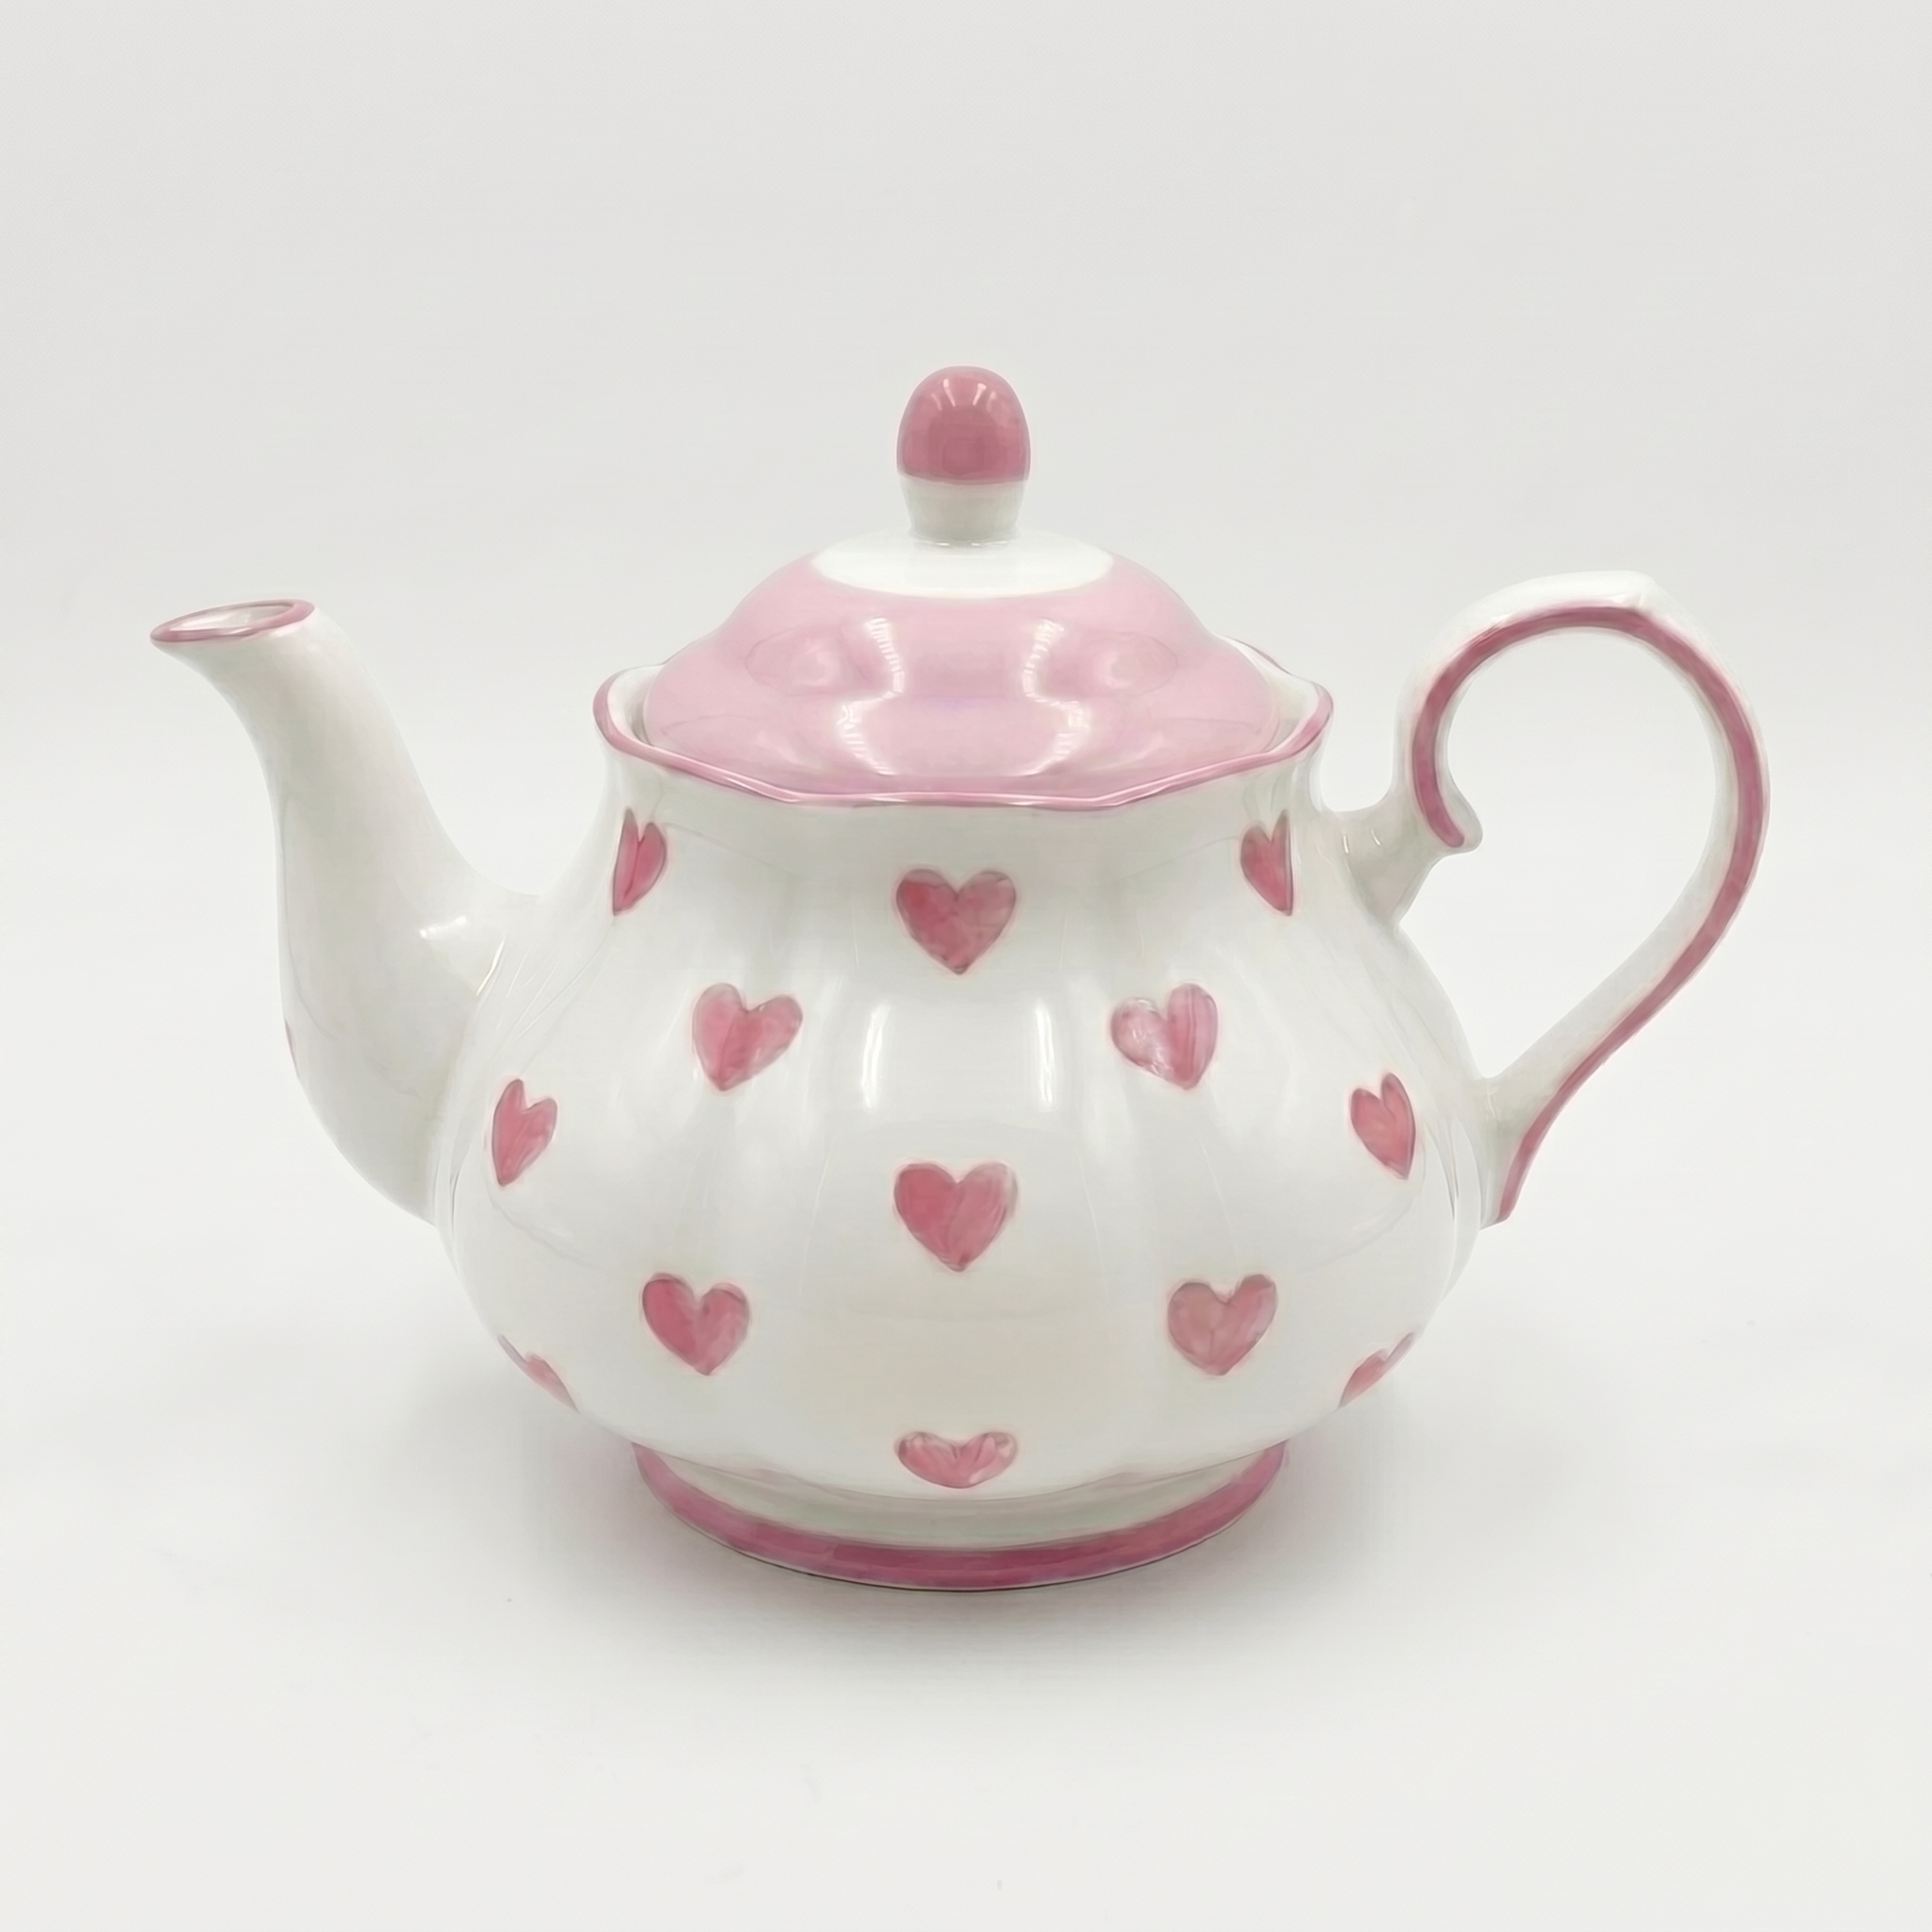
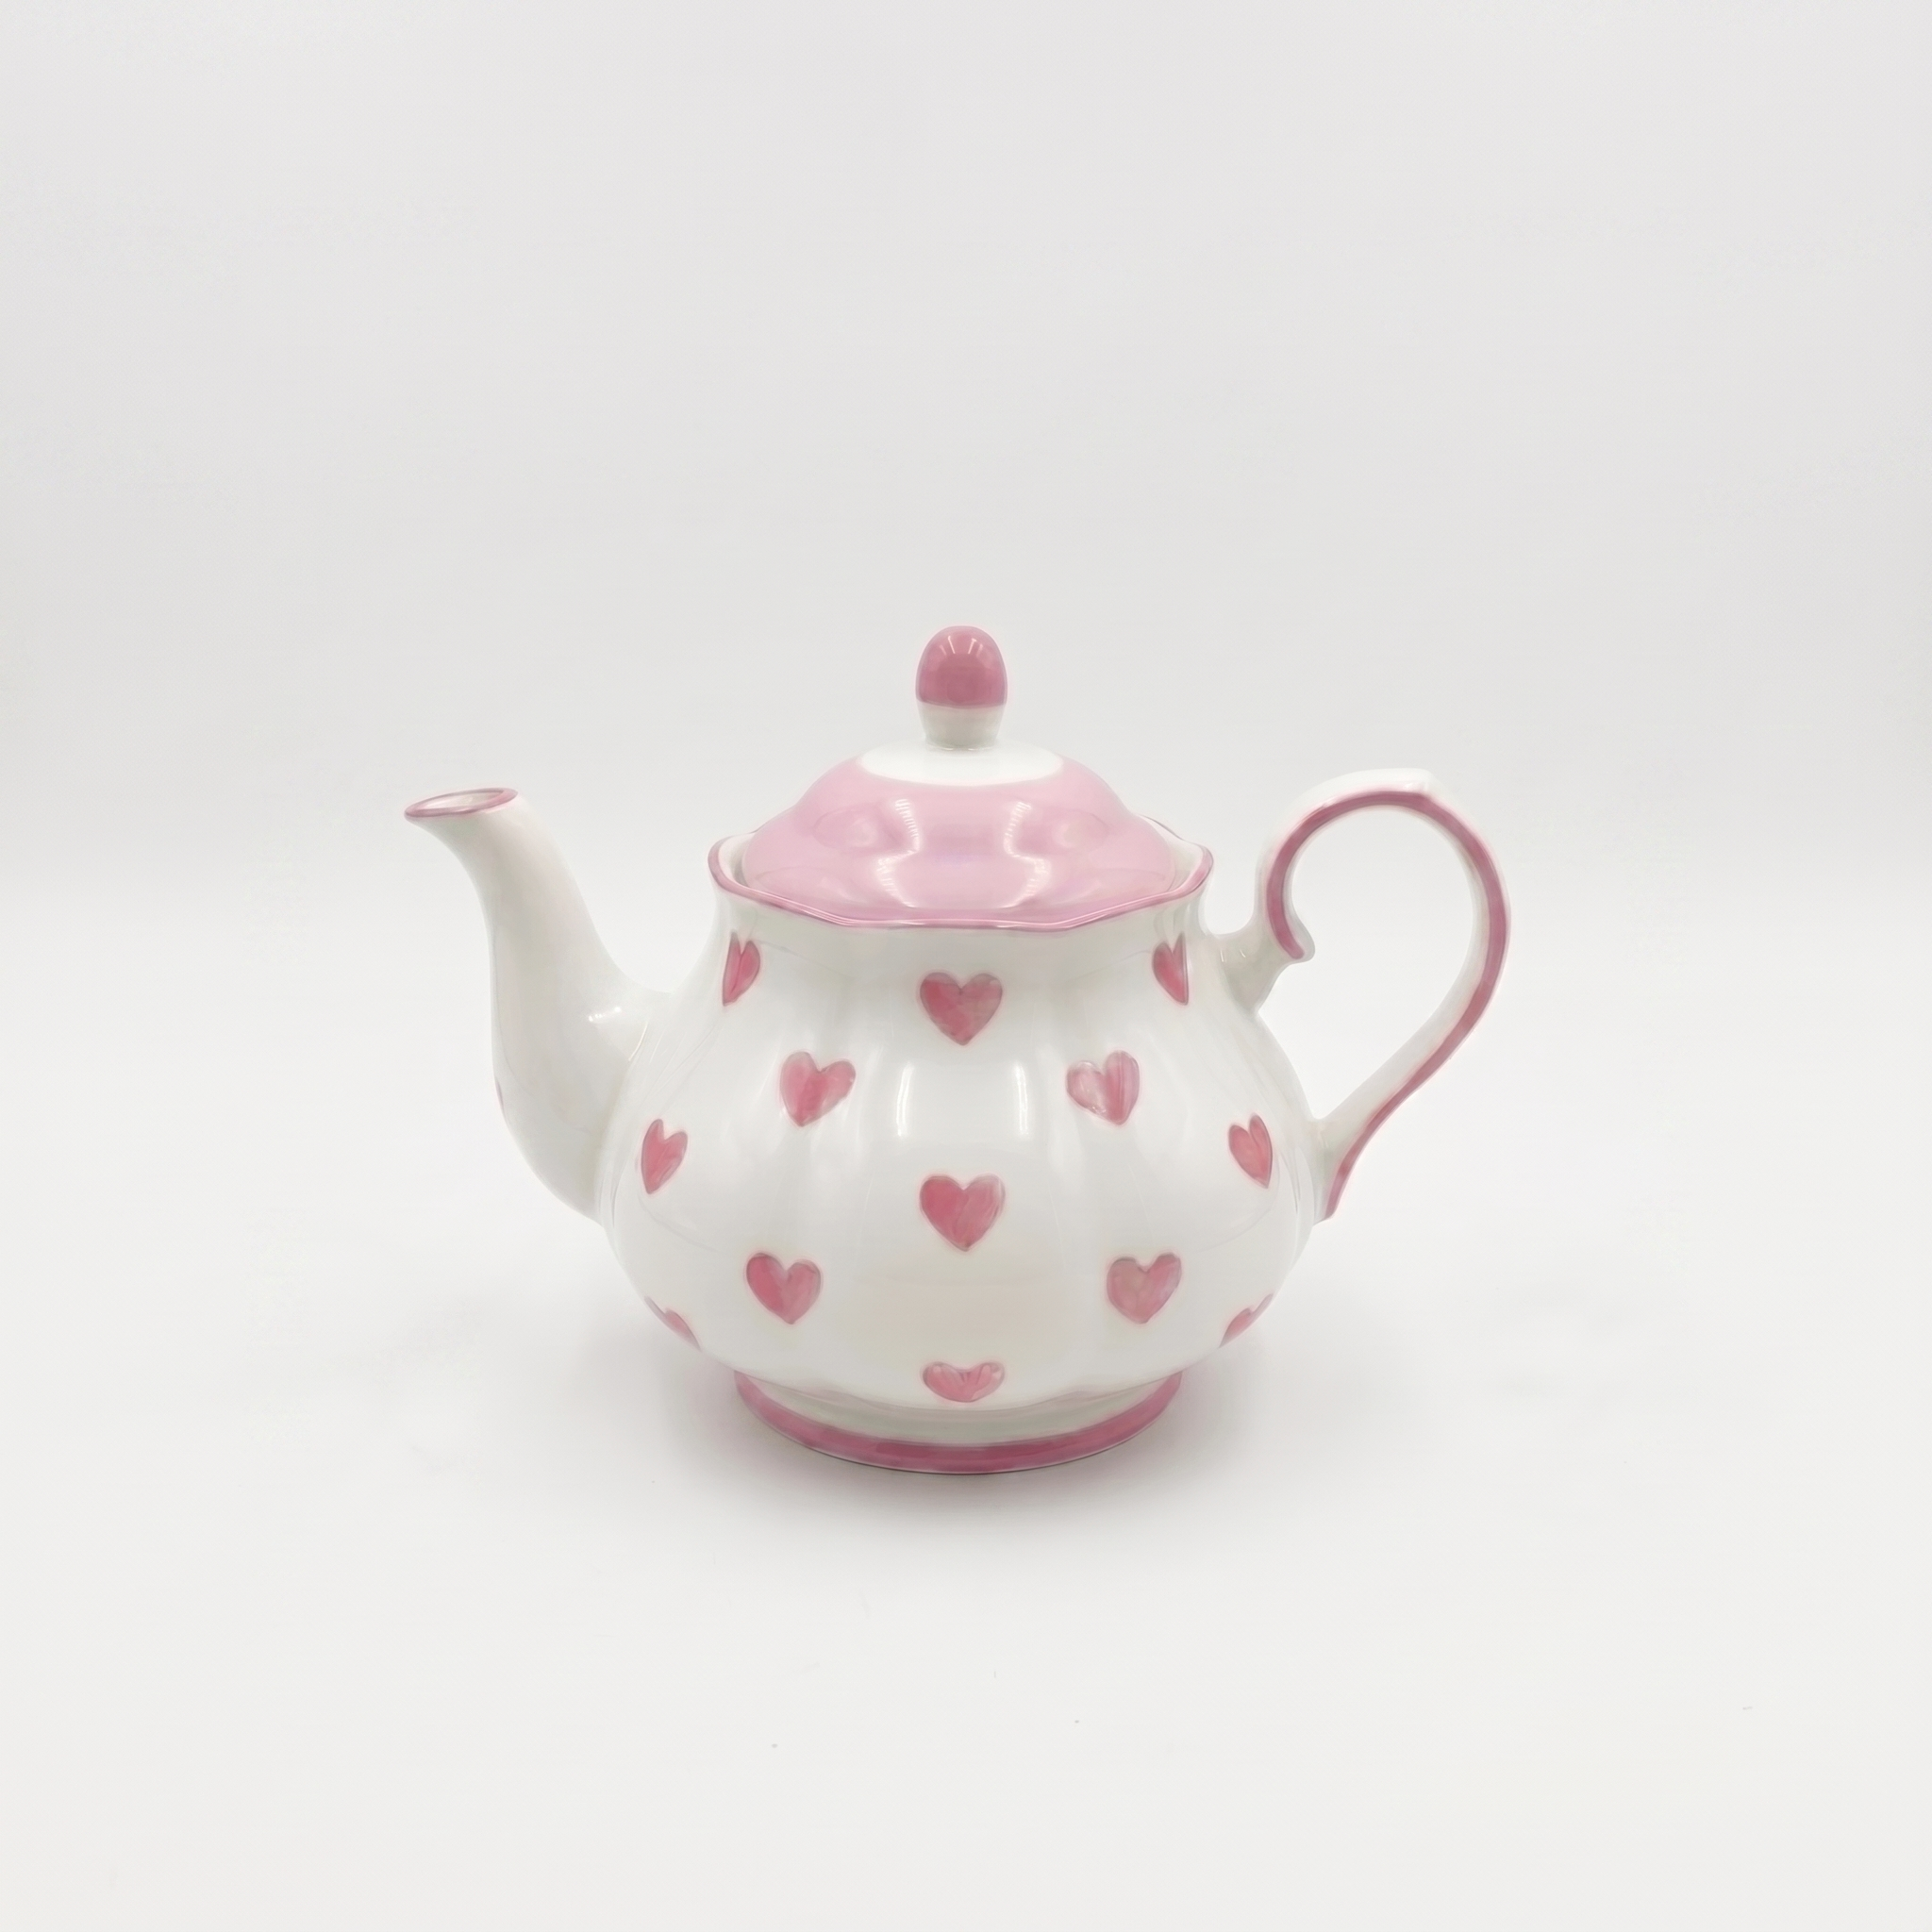
집8번

Changed region(s): [[0.0625, 0.2812, 0.9375, 0.875], [0.4375, 0.1875, 0.5312, 0.2812], [0.4375, 0.5938, 0.5312, 0.6562]]

diff --git a/index.html b/index.html
@@ -73,9 +73,9 @@
 
     #pottery .pottery-section__grid,
     #pottery .pottery-section__small-cards {
-      gap: 20px;
-      column-gap: 20px;
-      row-gap: 20px;
+      gap: 10px;
+      column-gap: 15px;
+      row-gap: 15px;
     }
 
     #exclusive-offer .exclusive-offer__banners {
@@ -379,29 +379,29 @@
                   <img src="img/newmainbig.png" alt="핑크 티 세트 대표 이미지">
                 </div>
                 <div class="new-card-list">
-                  <article class="new-product-card product-item" data-id="heart-butter-dish" data-name="미니 하트 도자기 버터 디쉬" data-image="img/productsub3.jpg" data-price="32300">
-                    <div class="product-image"><img src="img/productsub3.jpg" alt="미니 하트 도자기 버터 디쉬"></div>
+                  <article class="new-product-card product-item" data-id="new-pink-gradient-dessert-bowl" data-name="로맨틱 핑크 그라데이션 디저트 볼" data-image="img/romantic-pink-gradient-dessert-bowl.jpg" data-price="30600" data-original-price="36000" data-sale-price="30600" data-discount="15">
+                    <div class="product-image"><img src="img/romantic-pink-gradient-dessert-bowl.jpg" alt="로맨틱 핑크 그라데이션 디저트 볼"></div>
                     <div class="product-actions"><button class="product-action product-like favorite-button" type="button" aria-label="찜하기"><span class="heart-icon">♡</span></button><button class="product-action product-cart cart-button" type="button" aria-label="장바구니 담기"><img src="img/bagune.svg" alt=""></button></div>
                     <div class="product-info">
-                      <h3>미니 하트 도자기 버터 디쉬</h3>
-                      <p class="product-description">사랑스러운 핑크 하트 손잡이가 포인트인 다용도 디저트·버터 보관함</p>
+                      <h3>로맨틱 핑크 그라데이션 디저트 볼</h3>
+                      <p class="product-description">핑크 그라데이션과 골드 포인트가 어우러진 로맨틱한 디저트 볼</p>
                       <div class="new-product-price new-product-price--sale">
-                        <span class="new-product-price__old">38,000원</span>
+                        <span class="new-product-price__old">36,000원</span>
                         <span class="new-product-price__badge">15% OFF</span>
-                        <strong class="new-product-price__sale">32,300원</strong>
+                        <strong class="new-product-price__sale">30,600원</strong>
                       </div>
                     </div>
                   </article>
-                  <article class="new-product-card product-item" data-id="heart-cake-stand" data-name="하트 글라스 미니 케이크 스탠드" data-image="img/productsub4.jpg" data-price="28800">
-                    <div class="product-image"><img src="img/productsub4.jpg" alt="하트 글라스 미니 케이크 스탠드"></div>
+                  <article class="new-product-card product-item" data-id="pink-gradient-teacup-saucer" data-name="핑크 그라데이션 티컵 앤 소서" data-image="img/pink-gradient-teacup-saucer.jpg" data-price="40800" data-original-price="48000" data-sale-price="40800" data-discount="15">
+                    <div class="product-image"><img src="img/pink-gradient-teacup-saucer.jpg" alt="핑크 그라데이션 티컵 앤 소서"></div>
                     <div class="product-actions"><button class="product-action product-like favorite-button" type="button" aria-label="찜하기"><span class="heart-icon">♡</span></button><button class="product-action product-cart cart-button" type="button" aria-label="장바구니 담기"><img src="img/bagune.svg" alt=""></button></div>
                     <div class="product-info">
-                      <h3>하트 글라스 미니 케이크 스탠드</h3>
-                      <p class="product-description">하트 손잡이 유리 돔과 핑크 페디스털이 어우러진 미니 디저트 스탠드</p>
+                      <h3>핑크 그라데이션 티컵 앤 소서</h3>
+                      <p class="product-description">은은한 핑크 그라데이션과 골드 스푼이 어우러진 티컵 세트</p>
                       <div class="new-product-price new-product-price--sale">
-                        <span class="new-product-price__old">32,000원</span>
-                        <span class="new-product-price__badge">10% OFF</span>
-                        <strong class="new-product-price__sale">28,800원</strong>
+                        <span class="new-product-price__old">48,000원</span>
+                        <span class="new-product-price__badge">15% OFF</span>
+                        <strong class="new-product-price__sale">40,800원</strong>
                       </div>
                     </div>
                   </article>

diff --git a/product.js b/product.js
@@ -97,7 +97,8 @@ document.querySelectorAll(".product-sub").forEach((page) => {
       salePrice: Number(card.dataset.salePrice || card.dataset.price || 0),
       originalPrice: Number(card.dataset.originalPrice || card.dataset.price || 0),
       image,
-      category: card.dataset.category || ""
+      category: card.dataset.category || "",
+      description: card.dataset.description || ""
     };
   }
 

diff --git a/collection.html b/collection.html
@@ -102,6 +102,8 @@
         </div>
       </div>    </section>
     <section class="product-grid" aria-label="계절별 컬렉션 상품">
+      <article data-collection="pink-gradient" class="product-card product-item is-collection-card" data-available="true" data-category="milk-jug" data-color="pink" data-date="2026-07-08" data-description="핑크 그라데이션과 골드 라인이 어우러진 우아한 밀크 저그" data-discount="15" data-featured="true" data-id="pink-gradient-milk-jug" data-manual="true" data-name="핑크 그라데이션 밀크 저그" data-new="20260708" data-original-price="42000" data-price="35700" data-recommend="1" data-sales="124" data-sale-price="35700" data-type="milk-jug" title="핑크 그라데이션 밀크 저그"><div class="product-card__image"><img src="img/pink-gradient-milk-jug.jpg" alt="핑크 그라데이션 밀크 저그" title="핑크 그라데이션 밀크 저그" onerror="this.hidden=true"><span class="product-card__badge">COLLECTION</span><span class="product-card__badge product-card__badge--new">NEW</span></div><div class="product-card__info"><h2 class="product-card__name">핑크 그라데이션 밀크 저그</h2><div class="product-price"><span class="price-original">42,000원</span><span class="price-sale">35,700원</span><span class="price-discount">15% OFF</span></div></div></article>
+      <article data-collection="pink-gradient" class="product-card product-item is-collection-card" data-available="true" data-category="bowl" data-color="pink" data-date="2026-07-07" data-description="핑크 그라데이션과 골드 포인트가 어우러진 로맨틱한 디저트 볼" data-discount="15" data-featured="true" data-id="pink-gradient-dessert-bowl" data-manual="true" data-name="핑크 그라데이션 디저트 볼" data-new="20260707" data-original-price="36000" data-price="30600" data-recommend="2" data-sales="121" data-sale-price="30600" data-type="bowl" title="핑크 그라데이션 디저트 볼"><div class="product-card__image"><img src="img/pink-gradient-dessert-bowl.jpg" alt="핑크 그라데이션 디저트 볼" title="핑크 그라데이션 디저트 볼" onerror="this.hidden=true"><span class="product-card__badge">COLLECTION</span><span class="product-card__badge product-card__badge--new">NEW</span></div><div class="product-card__info"><h2 class="product-card__name">핑크 그라데이션 디저트 볼</h2><div class="product-price"><span class="price-original">36,000원</span><span class="price-sale">30,600원</span><span class="price-discount">15% OFF</span></div></div></article>
       <article data-collection="ivory" class="product-card product-item is-collection-card is-fluted-card" data-available="true" data-category="cup-saucer" data-color="ivory" data-date="2026-07-06" data-discount="10" data-id="collection-ivory-fluted-cup-saucer" data-manual="true" data-name="아이보리 플루티드 컵 앤 소서" data-new="20260706" data-original-price="42000" data-price="37800" data-recommend="1" data-sales="110" data-type="cup-saucer" title="아이보리 플루티드 컵 앤 소서"><div class="product-card__image"><img src="images/collection-ivory-fluted-cup-saucer.jpg" alt="아이보리 플루티드 컵 앤 소서" title="아이보리 플루티드 컵 앤 소서" onerror="this.hidden=true"><span class="product-card__badge">아이보리 컬렉션</span></div><div class="product-card__info"><h2 class="product-card__name">아이보리 플루티드 컵 앤 소서</h2><div class="product-price"><span class="price-original">42,000원</span><span class="price-sale">37,800원</span><span class="price-discount">10% OFF</span></div></div></article>
       <article data-collection="ivory" class="product-card product-item is-collection-card is-fluted-card" data-available="true" data-category="teapot" data-color="ivory" data-date="2026-07-05" data-discount="12" data-id="collection-ivory-fluted-teapot" data-manual="true" data-name="아이보리 플루티드 티팟" data-new="20260705" data-original-price="68000" data-price="59800" data-price-range="50000s" data-recommend="2" data-sales="108" data-type="teapot" title="아이보리 플루티드 티팟"><div class="product-card__image"><img src="images/collection-ivory-fluted-teapot.jpg" alt="아이보리 플루티드 티팟" title="아이보리 플루티드 티팟" onerror="this.hidden=true"><span class="product-card__badge">아이보리 컬렉션</span></div><div class="product-card__info"><h2 class="product-card__name">아이보리 플루티드 티팟</h2><div class="product-price"><span class="price-original">68,000원</span><span class="price-sale">59,800원</span><span class="price-discount">12% OFF</span></div></div></article>
       <article data-collection="ivory" class="product-card product-item is-collection-card is-fluted-card" data-available="true" data-category="tea-set" data-color="ivory" data-date="2026-07-04" data-discount="15" data-id="collection-ivory-teapot-duo-set" data-manual="true" data-name="아이보리 티팟 듀오 세트" data-new="20260704" data-original-price="128000" data-price="108800" data-price-range="over100000" data-recommend="3" data-sales="106" data-type="tea-set" title="아이보리 티팟 듀오 세트"><div class="product-card__image"><img src="images/collection-ivory-teapot-duo-set.jpg" alt="아이보리 티팟 듀오 세트" title="아이보리 티팟 듀오 세트" onerror="this.hidden=true"><span class="product-card__badge">아이보리 컬렉션</span></div><div class="product-card__info"><h2 class="product-card__name">아이보리 티팟 듀오 세트</h2><div class="product-price"><span class="price-original">128,000원</span><span class="price-sale">108,800원</span><span class="price-discount">15% OFF</span></div></div></article>